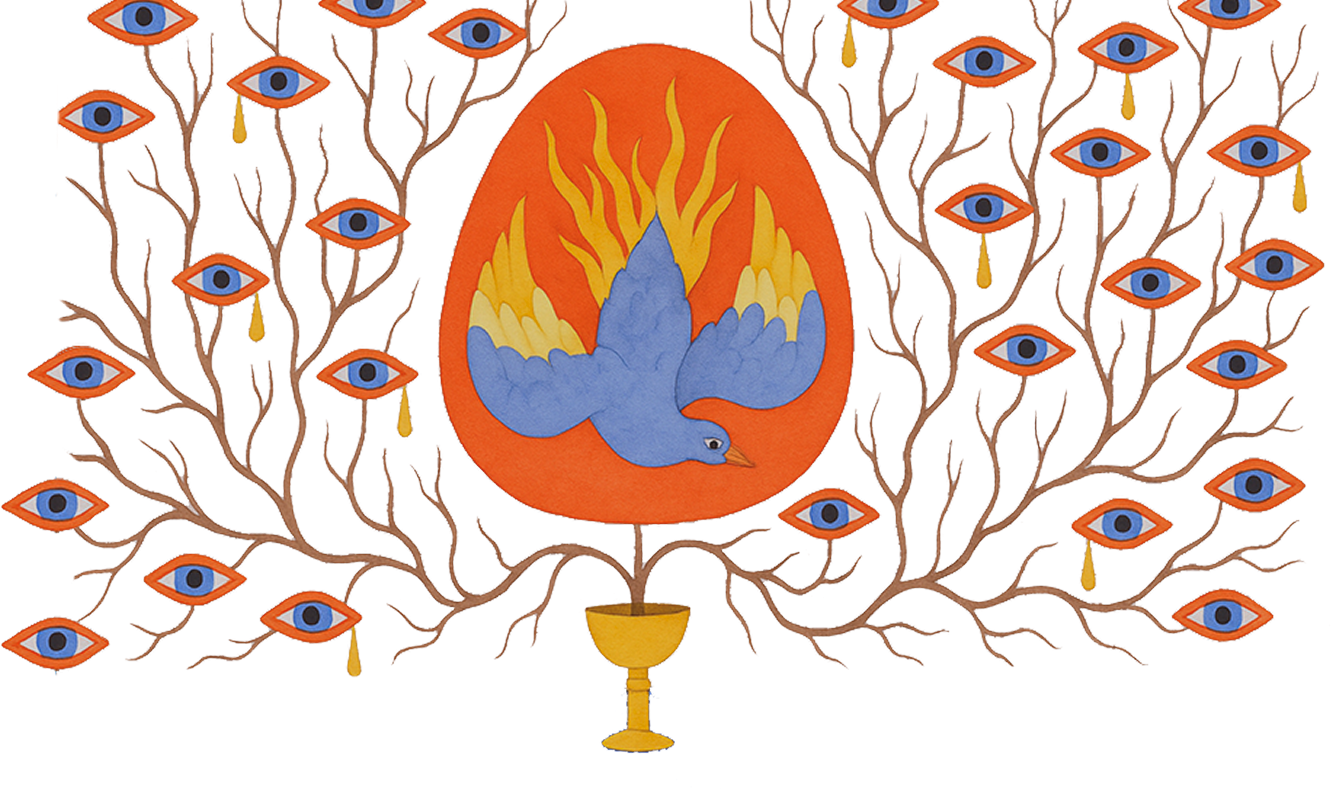
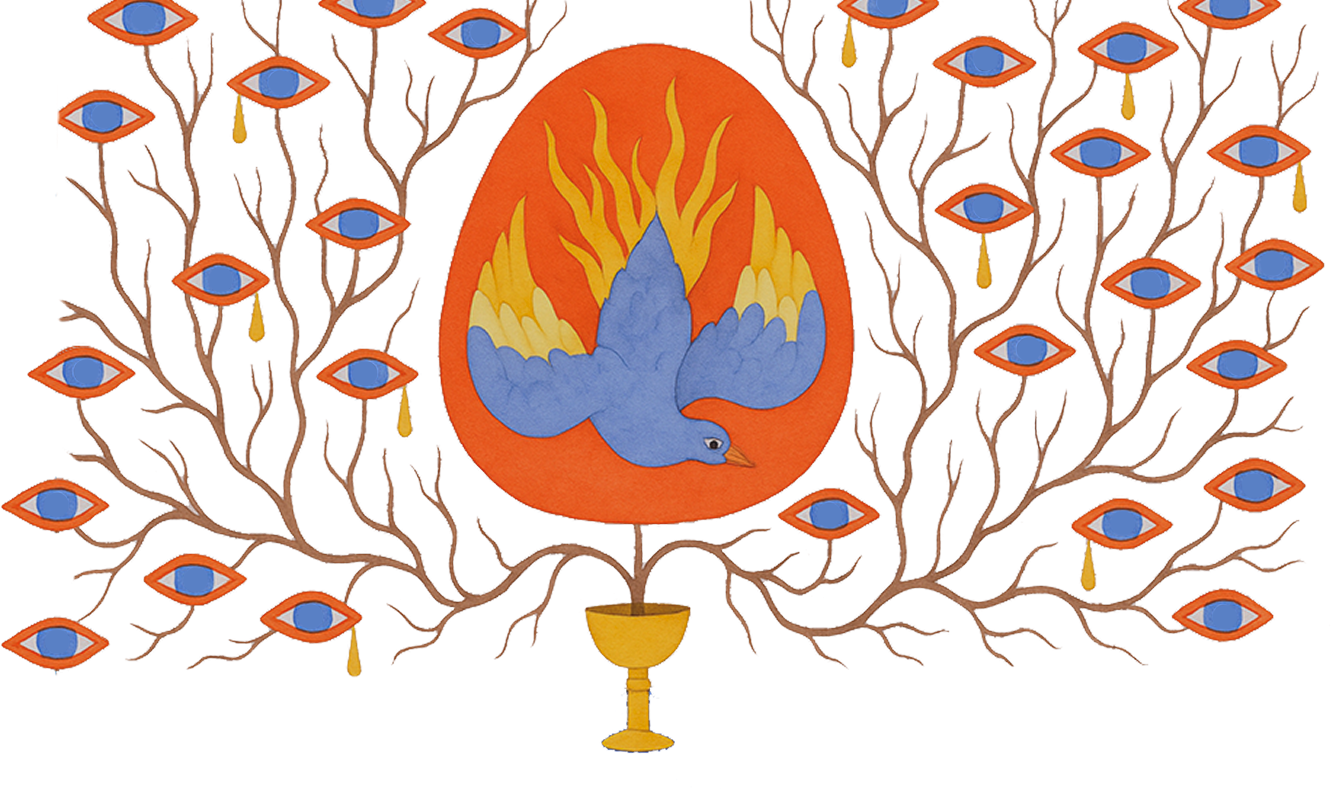
added half of the eyes for altar

diff --git a/src/TemplePages/AltarPage.js b/src/TemplePages/AltarPage.js
@@ -5,6 +5,7 @@ import prayingRight from '../assets/altar/praying_right.png';
 import eyesTree from '../assets/altar/eyes_tree.png';
 import { useAuth } from '../contexts/AuthContext';
 import { getUserAltarItems, saveAltarItem, formatItemForDisplay } from './altarItemsUtil';
+import TreeEyes from '../TreeEyes';
 
 // Import WebFont for Google Fonts
 import WebFont from 'webfontloader';
@@ -31,6 +32,7 @@ const AltarPage = () => {
   const [showPopup, setShowPopup] = useState(false);
   const [clickPosition, setClickPosition] = useState({ x: 0, y: 0, tableRect: null });
   const [isLoading, setIsLoading] = useState(true);
+  const [isScreenTooSmall, setIsScreenTooSmall] = useState(false);
   const { currentUser } = useAuth();
   
   // const BACKEND_URL = 'https://flask-api-717901323721.us-central1.run.app';
@@ -45,6 +47,26 @@ const AltarPage = () => {
         families: ['Protest Revolution']
       }
     });
+  }, []);
+
+  // Add screen size check
+  useEffect(() => {
+    const checkScreenSize = () => {
+      const width = window.innerWidth;
+      const height = window.innerHeight;
+      const aspectRatio = width / height;
+      const minAspectRatio = 600 / 925; // approximately 0.649
+      setIsScreenTooSmall(aspectRatio < minAspectRatio);
+    };
+
+    // Check initially
+    checkScreenSize();
+
+    // Add resize listener
+    window.addEventListener('resize', checkScreenSize);
+
+    // Cleanup
+    return () => window.removeEventListener('resize', checkScreenSize);
   }, []);
 
   // Fetch balance and user's altar items when component mounts
@@ -298,54 +320,63 @@ const AltarPage = () => {
 
   return (
     <div className="altar-wrapper">
-      <div className="altar-container">
-        <div className="balance-box">
-          <p>Balance: {balance !== null ? balance : "Loading..."}</p>
-          {error && <p className="error">{error}</p>}
+      {isScreenTooSmall ? (
+        <div className="screen-size-warning">
+          <h2>Screen Too Small</h2>
+          <p>Please view this page on a larger screen or rotate your device to landscape mode.</p>
+          <p>Minimum aspect ratio: 600:925</p>
         </div>
-        
-        <div className="altar-background">
-          <div className="praying-figures-left">
-            <img src={prayingLeft} alt="Praying figures left" className="praying-left" />
+      ) : (
+        <div className="altar-container">
+          <div className="balance-box">
+            <p>Balance: {balance !== null ? balance : "Loading..."}</p>
+            {error && <p className="error">{error}</p>}
           </div>
-          <div className="praying-figures-right">
-            <img src={prayingRight} alt="Praying figures right" className="praying-right" />
-          </div>
-          <div className="eyes-tree-container">
-            <img src={eyesTree} alt="Eyes tree" className="eyes-tree" />
-          </div>
-          <div className="altar-table" onClick={handleTableClick}>
-            {isLoading ? (
-              <div className="loading-indicator">Loading items...</div>
-            ) : (
-              randomItems.map((item) => (
-                <div 
-                  key={item.uniqueId}
-                  className={`random-item item-${item.category}`}
-                  style={item.style}
-                >
-                  <img src={item.src} alt={item.alt} />
-                </div>
-              ))
-            )}
-          </div>
-        </div>
-        
-        {/* Confirmation Popup */}
-        {showPopup && (
-          <div className="sacrifice-popup-overlay">
-            <div className="sacrifice-popup">
-              <h3>Confirm Sacrifice</h3>
-              <p>Each sacrifice costs {SACRIFICE_COST}.</p>
-              <p>Your current balance is {balance}.</p>
-              <div className="popup-buttons">
-                <button className="cancel-button" onClick={handleCancelSacrifice}>Cancel</button>
-                <button className="confirm-button" onClick={handleConfirmSacrifice}>Confirm</button>
-              </div>
+          
+          <div className="altar-background">
+            <div className="praying-figures-left">
+              <img src={prayingLeft} alt="Praying figures left" className="praying-left" />
+            </div>
+            <div className="praying-figures-right">
+              <img src={prayingRight} alt="Praying figures right" className="praying-right" />
+            </div>
+            <div className="eyes-tree-container">
+              <img src={eyesTree} alt="Eyes tree" className="eyes-tree" />
+              <TreeEyes />
+            </div>
+            <div className="altar-table" onClick={handleTableClick}>
+              {isLoading ? (
+                <div className="loading-indicator">Loading items...</div>
+              ) : (
+                randomItems.map((item) => (
+                  <div 
+                    key={item.uniqueId}
+                    className={`random-item item-${item.category}`}
+                    style={item.style}
+                  >
+                    <img src={item.src} alt={item.alt} />
+                  </div>
+                ))
+              )}
             </div>
           </div>
-        )}
-      </div>
+          
+          {/* Confirmation Popup */}
+          {showPopup && (
+            <div className="sacrifice-popup-overlay">
+              <div className="sacrifice-popup">
+                <h3>Confirm Sacrifice</h3>
+                <p>Each sacrifice costs {SACRIFICE_COST}.</p>
+                <p>Your current balance is {balance}.</p>
+                <div className="popup-buttons">
+                  <button className="cancel-button" onClick={handleCancelSacrifice}>Cancel</button>
+                  <button className="confirm-button" onClick={handleConfirmSacrifice}>Confirm</button>
+                </div>
+              </div>
+            </div>
+          )}
+        </div>
+      )}
     </div>
   );
 };

diff --git a/src/TemplePages/AltarStyles.css b/src/TemplePages/AltarStyles.css
@@ -19,6 +19,7 @@ html, body {
 .altar-wrapper {
   position: fixed;
   top: 0;
+  margin-top:0 ;
   left: 0;
   width: 100%;
   height: 100%;
@@ -31,26 +32,28 @@ html, body {
 
 .altar-container {
   position: relative;
-  width: 1200px;
-  height: 800px;
-  flex-shrink: 0;
-  flex-grow: 0;
-  overflow: hidden;
+  width: 100vw;
+  min-width: 800px;
+  height: 99vh;
+  /* flex-shrink: 0; */
+  /* flex-grow: 0; */
+  /* overflow: hidden; */
   transform-origin: center center;
   box-shadow: 0 0 50px rgba(0, 0, 0, 0.5);
 }
 
-@media (max-width: 1200px), (max-height: 800px) {
+/* @media (max-width: 1200px), (max-height: 800px) {
   .altar-container {
     transform: scale(0.8);
   }
-}
+} */
 
-@media (max-width: 960px), (max-height: 640px) {
+/* @media (max-width: 960px), (max-height: 640px) {
   .altar-container {
     transform: scale(0.6);
   }
-}
+} */
+
 
 .altar-background {
   width: 100%;
@@ -167,7 +170,7 @@ html, body {
 /* Eyes tree styles */
 .eyes-tree-container {
   position: absolute;
-  top: 5%;
+  top: 0%;
   left: 50%;
   transform: translateX(-50%);
   height: 65%;
@@ -320,3 +323,94 @@ html, body {
   50% { opacity: 1; }
   100% { opacity: 0.6; }
 }
+
+/* Screen size warning styles */
+.screen-size-warning {
+  position: fixed;
+  top: 50%;
+  left: 50%;
+  transform: translate(-50%, -50%);
+  background-color: rgba(0, 0, 0, 0.9);
+  border: 2px solid #E95A21;
+  border-radius: 10px;
+  padding: 30px;
+  text-align: center;
+  color: white;
+  font-family: 'Protest Revolution', sans-serif;
+  max-width: 90%;
+  width: 400px;
+  box-shadow: 0 0 20px rgba(233, 90, 33, 0.6);
+  z-index: 1000;
+}
+
+.screen-size-warning h2 {
+  color: #E95A21;
+  margin-top: 0;
+  font-size: 24px;
+  margin-bottom: 20px;
+}
+
+.screen-size-warning p {
+  margin: 10px 0;
+  font-size: 16px;
+  line-height: 1.5;
+}
+
+/* Floating eyes styles */
+.floating-eyes {
+  position: absolute;
+  top: 50%;
+  left: 50%;
+  transform: translate(-50%, -50%);
+  width: 100%;
+  height: 100%;
+  pointer-events: none;
+  z-index: 20;
+}
+
+/* Adjust eyes tree container to accommodate floating eyes */
+.eyes-tree-container {
+  position: absolute;
+  top: 0%;
+  left: 50%;
+  transform: translateX(-50%);
+  height: 65%;
+  z-index: 5;
+  pointer-events: none;
+}
+
+/* Tree Eyes styles */
+.tree-eyes-container {
+  position: absolute;
+  top: 0;
+  left: 0;
+  width: 100%;
+  height: 100%;
+  pointer-events: none;
+}
+
+.tree-eyes-container .eye {
+  position: absolute;
+  width: 2%;
+  height: auto;
+  pointer-events: none;
+}
+
+
+.tree-eyes-container .eye-1 { top: 0.5%; left: 10%; }
+.tree-eyes-container .eye-2 { top: 13%; left: 7%; }
+.tree-eyes-container .eye-3 { top: 45.5%; left: 5.2%; }
+.tree-eyes-container .eye-4 { top: 62%; left: 3.5%; }
+.tree-eyes-container .eye-5 { top: 79.5%; left: 3.5%; }
+
+.tree-eyes-container .eye-6 { top: 8.5%; left: 20%; }
+.tree-eyes-container .eye-7 { top: 33.5%; left: 15.7%; }
+.tree-eyes-container .eye-8 { top: 71.8%; left: 13.7%; }
+
+
+.tree-eyes-container .eye-9 { top: -1.5%; left: 27%; }
+.tree-eyes-container .eye-10 { top: 27%; left: 26%; }
+.tree-eyes-container .eye-11 { top: 45.8%; left: 26.5%; }
+.tree-eyes-container .eye-12 { top: 76.5%; left: 22.5%; }
+
+.tree-eyes-container .eye-12 { top: 2.5%; left: 35%; }
